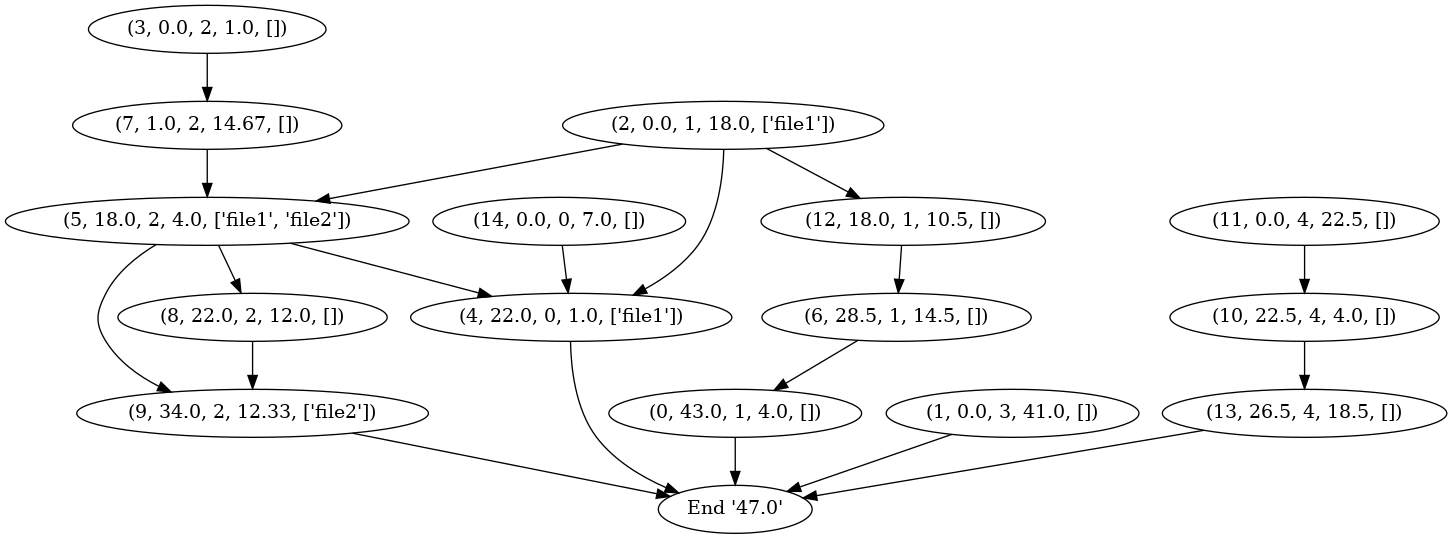
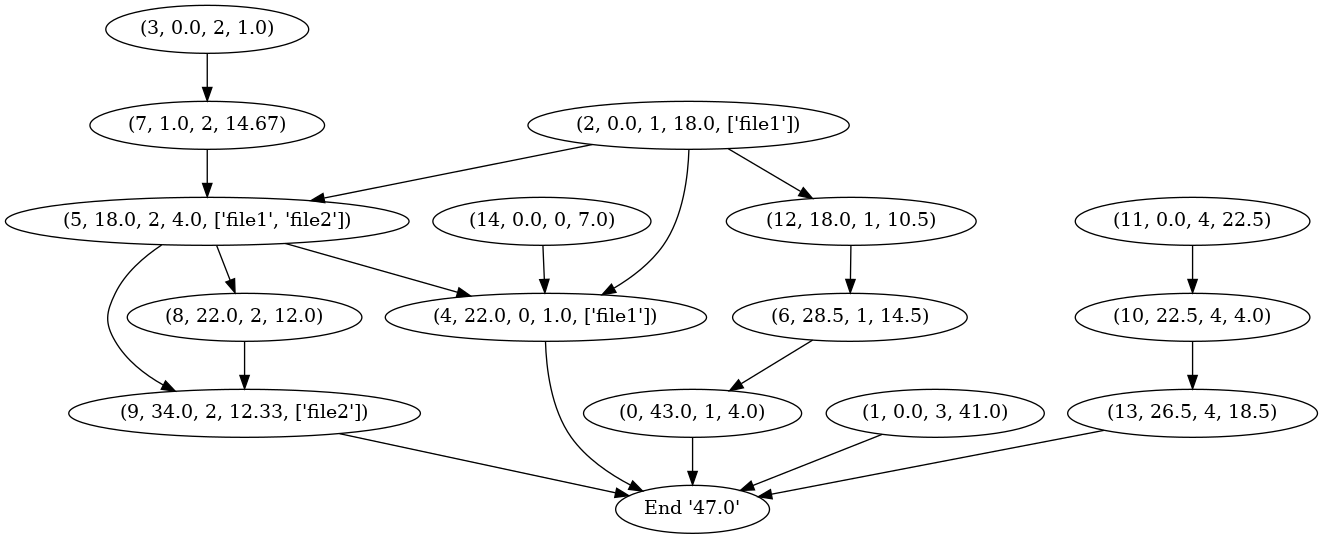
beutify plot

diff --git a/plotter.py b/plotter.py
@@ -9,7 +9,10 @@ doOpen = True
 def getStr(machineJob, ts=0):
     if machineJob == -1:
         return "End '" + str(ts) + "'"
-    return str(machineJob[:])
+    if len(machineJob[-1]) > 0:
+        return str(machineJob)
+    else:
+        return str(machineJob[:-1])
 
 def drawDag(G, S, I, ts, s):
     A = gv.Digraph(format='png')
